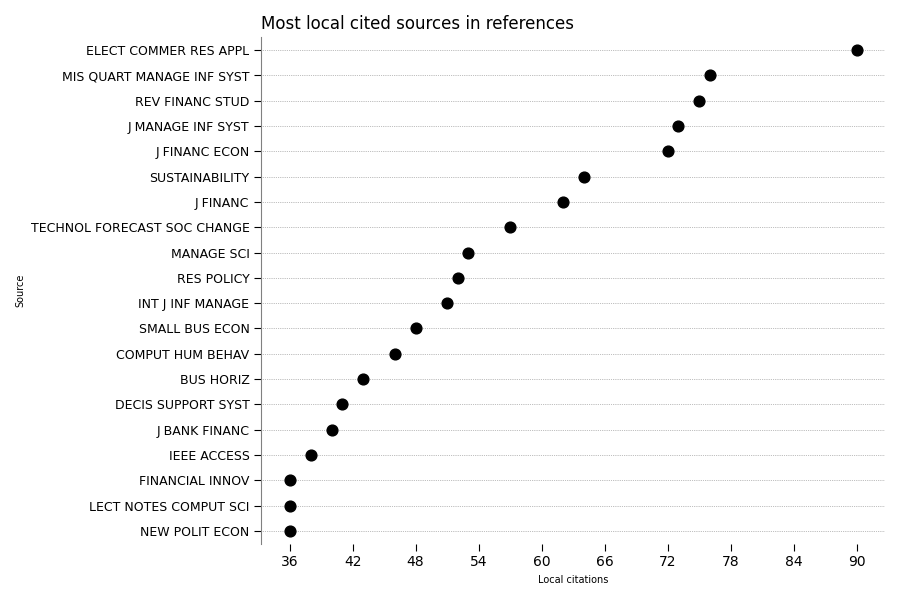
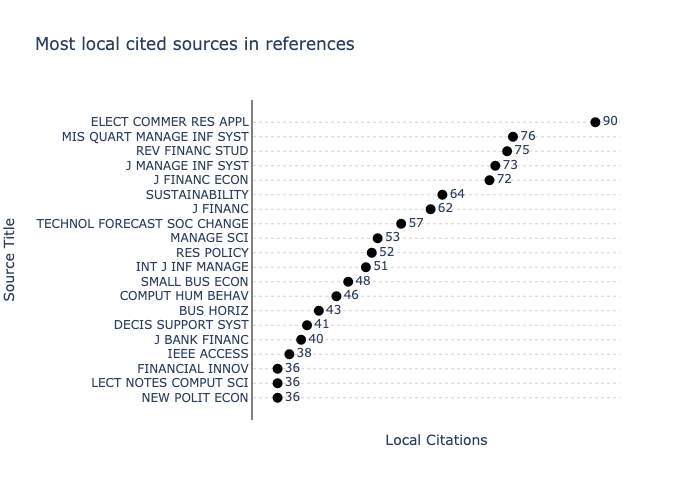
updaete

diff --git a/techminer2/most_local_cited_sources.py b/techminer2/most_local_cited_sources.py
@@ -1,5 +1,5 @@
 """
-Most Local Cited Sources
+Most Local Cited Sources in References (*)
 ===============================================================================
 
 Plot the most local cited sources in the references.
@@ -7,61 +7,97 @@ Plot the most local cited sources in the references.
 >>> from techminer2 import *
 >>> directory = "data/"
 >>> file_name = "sphinx/images/most_local_cited_sources.png"
->>> most_local_cited_sources(directory=directory).savefig(file_name)
+>>> most_local_cited_sources(
+...     top_n=20,
+...     directory=directory,
+... ).write_image(file_name)
 
 .. image:: images/most_local_cited_sources.png
     :width: 700px
     :align: center
 
-
-
->>> most_local_cited_sources(directory=directory, plot=False).head(10)
-iso_source_name
-ELECT COMMER RES APPL          90
-MIS QUART MANAGE INF SYST      76
-REV FINANC STUD                75
-J MANAGE INF SYST              73
-J FINANC ECON                  72
-SUSTAINABILITY                 64
-J FINANC                       62
-TECHNOL FORECAST SOC CHANGE    57
-MANAGE SCI                     53
-RES POLICY                     52
-Name: local_citations, dtype: int64
-
-
 """
-from os.path import join
+import os.path
 
 import pandas as pd
+import plotly.express as px
 
-from ._cleveland_chart import _cleveland_chart
+from .column_indicators import column_indicators
 
 
 def most_local_cited_sources(
-    top_n=20,
-    color="k",
-    figsize=(9, 6),
+    top_n=10,
     directory="./",
-    plot=True,
 ):
 
     indicators = pd.read_csv(
-        join(directory, "processed", "references.csv"), sep=",", encoding="utf-8"
+        os.path.join(directory, "processed", "references.csv"),
+        sep=",",
+        encoding="utf-8",
     )
     indicators = indicators[["iso_source_name", "local_citations"]]
     indicators = indicators.groupby("iso_source_name").sum()
     indicators = indicators.sort_values(by="local_citations", ascending=False)
+    if top_n is not None:
+        indicators = indicators.head(top_n)
+    indicators = indicators.local_citations
 
-    if plot is False:
-        return indicators.local_citations
-
-    indicators = indicators.local_citations.head(top_n)
-    return _cleveland_chart(
-        indicators,
-        figsize=figsize,
-        color=color,
+    fig = px.scatter(
+        x=indicators.values,
+        y=indicators.index,
         title="Most local cited sources in references",
-        xlabel="Local citations",
-        ylabel="Source",
+        text=indicators.astype(str),
+        labels={"x": "Local Citations", "y": "Source Title"},
     )
+    fig.update_traces(marker=dict(size=10, color="black"))
+    fig.update_traces(textposition="middle right")
+    fig.update_traces(line=dict(color="black"))
+    fig.update_layout(paper_bgcolor="white", plot_bgcolor="white")
+    fig.update_yaxes(
+        linecolor="gray",
+        linewidth=2,
+        gridcolor="lightgray",
+        autorange="reversed",
+        griddash="dot",
+    )
+    fig.update_xaxes(showticklabels=False)
+    return fig
+
+
+# ###
+
+
+# from os.path import join
+
+# import pandas as pd
+
+# from ._cleveland_chart import _cleveland_chart
+
+
+# def most_local_cited_sources(
+#     top_n=20,
+#     color="k",
+#     figsize=(9, 6),
+#     directory="./",
+#     plot=True,
+# ):
+
+#     indicators = pd.read_csv(
+#         join(directory, "processed", "references.csv"), sep=",", encoding="utf-8"
+#     )
+#     indicators = indicators[["iso_source_name", "local_citations"]]
+#     indicators = indicators.groupby("iso_source_name").sum()
+#     indicators = indicators.sort_values(by="local_citations", ascending=False)
+
+#     if plot is False:
+#         return indicators.local_citations
+
+#     indicators = indicators.local_citations.head(top_n)
+#     return _cleveland_chart(
+#         indicators,
+#         figsize=figsize,
+#         color=color,
+#         title="Most local cited sources in references",
+#         xlabel="Local citations",
+#         ylabel="Source",
+#     )

diff --git a/techminer2/most_relevant_sources.py b/techminer2/most_relevant_sources.py
@@ -1,5 +1,5 @@
 """
-Most Relevant Sources
+Most Relevant Sources (*)
 ===============================================================================
 
 >>> from techminer2 import *

diff --git a/techminer2/country_scientific_production.py b/techminer2/country_scientific_production.py
@@ -23,7 +23,6 @@ Country Scientific Production
 # >>> display(fig)
 
 """
-import json
 from os.path import dirname, join
 
 import matplotlib.pyplot as plt
